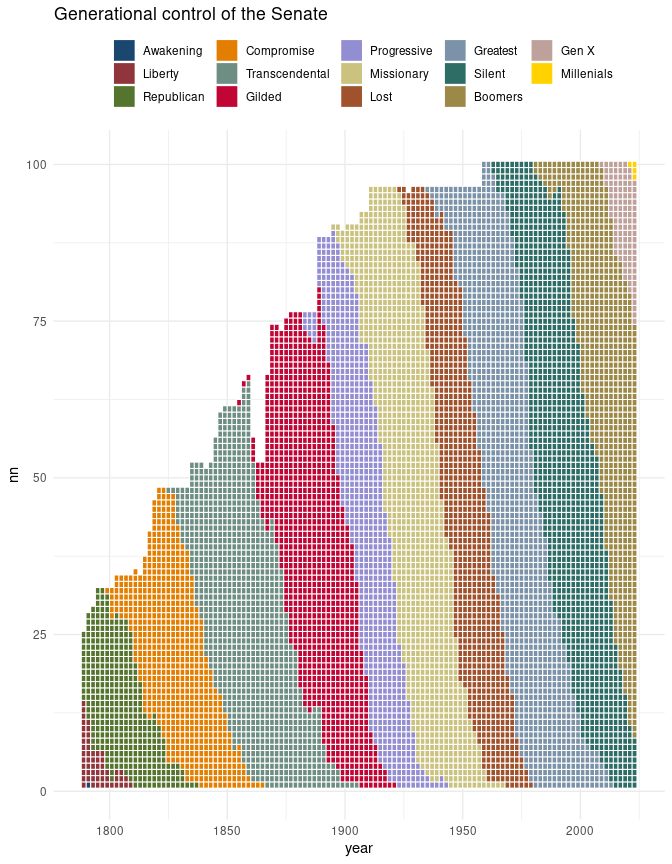
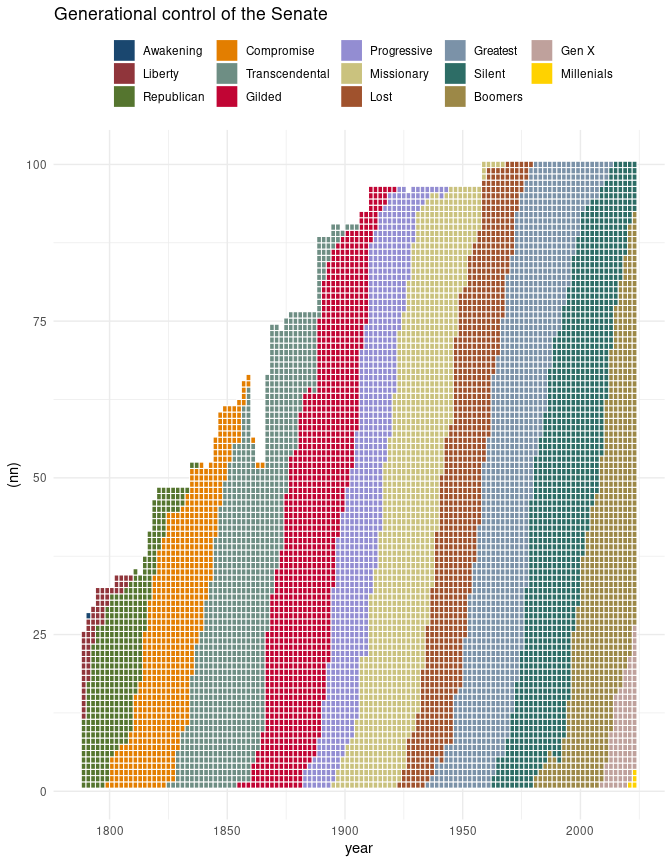
re

Changed region(s): [[0.125, 0.1875, 0.9688, 0.9375]]

diff --git a/README.md b/README.md
@@ -1,6 +1,6 @@
 # American political data & R
 
-*Updated: 2023-02-23*
+*Updated: 2023-02-24*
 
 ![](README_files/figure-markdown_github/collage1.png)
 
@@ -190,8 +190,8 @@ vvo <- lapply(c('house', 'senate'), function(x) {
     filter(chamber != 'President') }) 
 ```
 
-    ## [1] "/tmp/RtmpuiWHHM/Hall_members.csv"
-    ## [1] "/tmp/RtmpuiWHHM/Sall_members.csv"
+    ## [1] "/tmp/RtmpZHgmQf/Hall_members.csv"
+    ## [1] "/tmp/RtmpZHgmQf/Sall_members.csv"
 
 ``` r
 congress00 <- vvo |>
@@ -823,7 +823,9 @@ gens |> knitr::kable()
 
 ### Generational control in the Senate
 
-> Each column represents a congress; each tile represents a Senator.
+> Each column represents a congress; each tile represents a Senator. See
+> [this post](https://www.wcd.fyi/features/senate-generations/) for a
+> cool, interactive version.
 
 ``` r
 sens00 <- sens
@@ -836,12 +838,14 @@ sens00 <- sens00 |>
   arrange(order) |>
   mutate(generation = as.factor(generation)) |>
   mutate(generation = forcats::fct_relevel(generation, 
-                                           gens$generation))
-
-sens00 |>
+                                           gens$generation)) |>
   group_by(congress) |>
-  mutate(nn = row_number()) |>
-  ggplot(aes(x = year, y = nn, fill = generation)) +
+  arrange(desc(order)) |>
+  mutate(nn = row_number()) |> ungroup() |>
+  select(year, nn, generation, order)
+
+sens00  |>
+  ggplot(aes(x = year, y = (nn), fill = generation)) +
   geom_tile(color = 'white', size = .35) +
   ggthemes::scale_fill_stata() +
   theme_minimal() +
